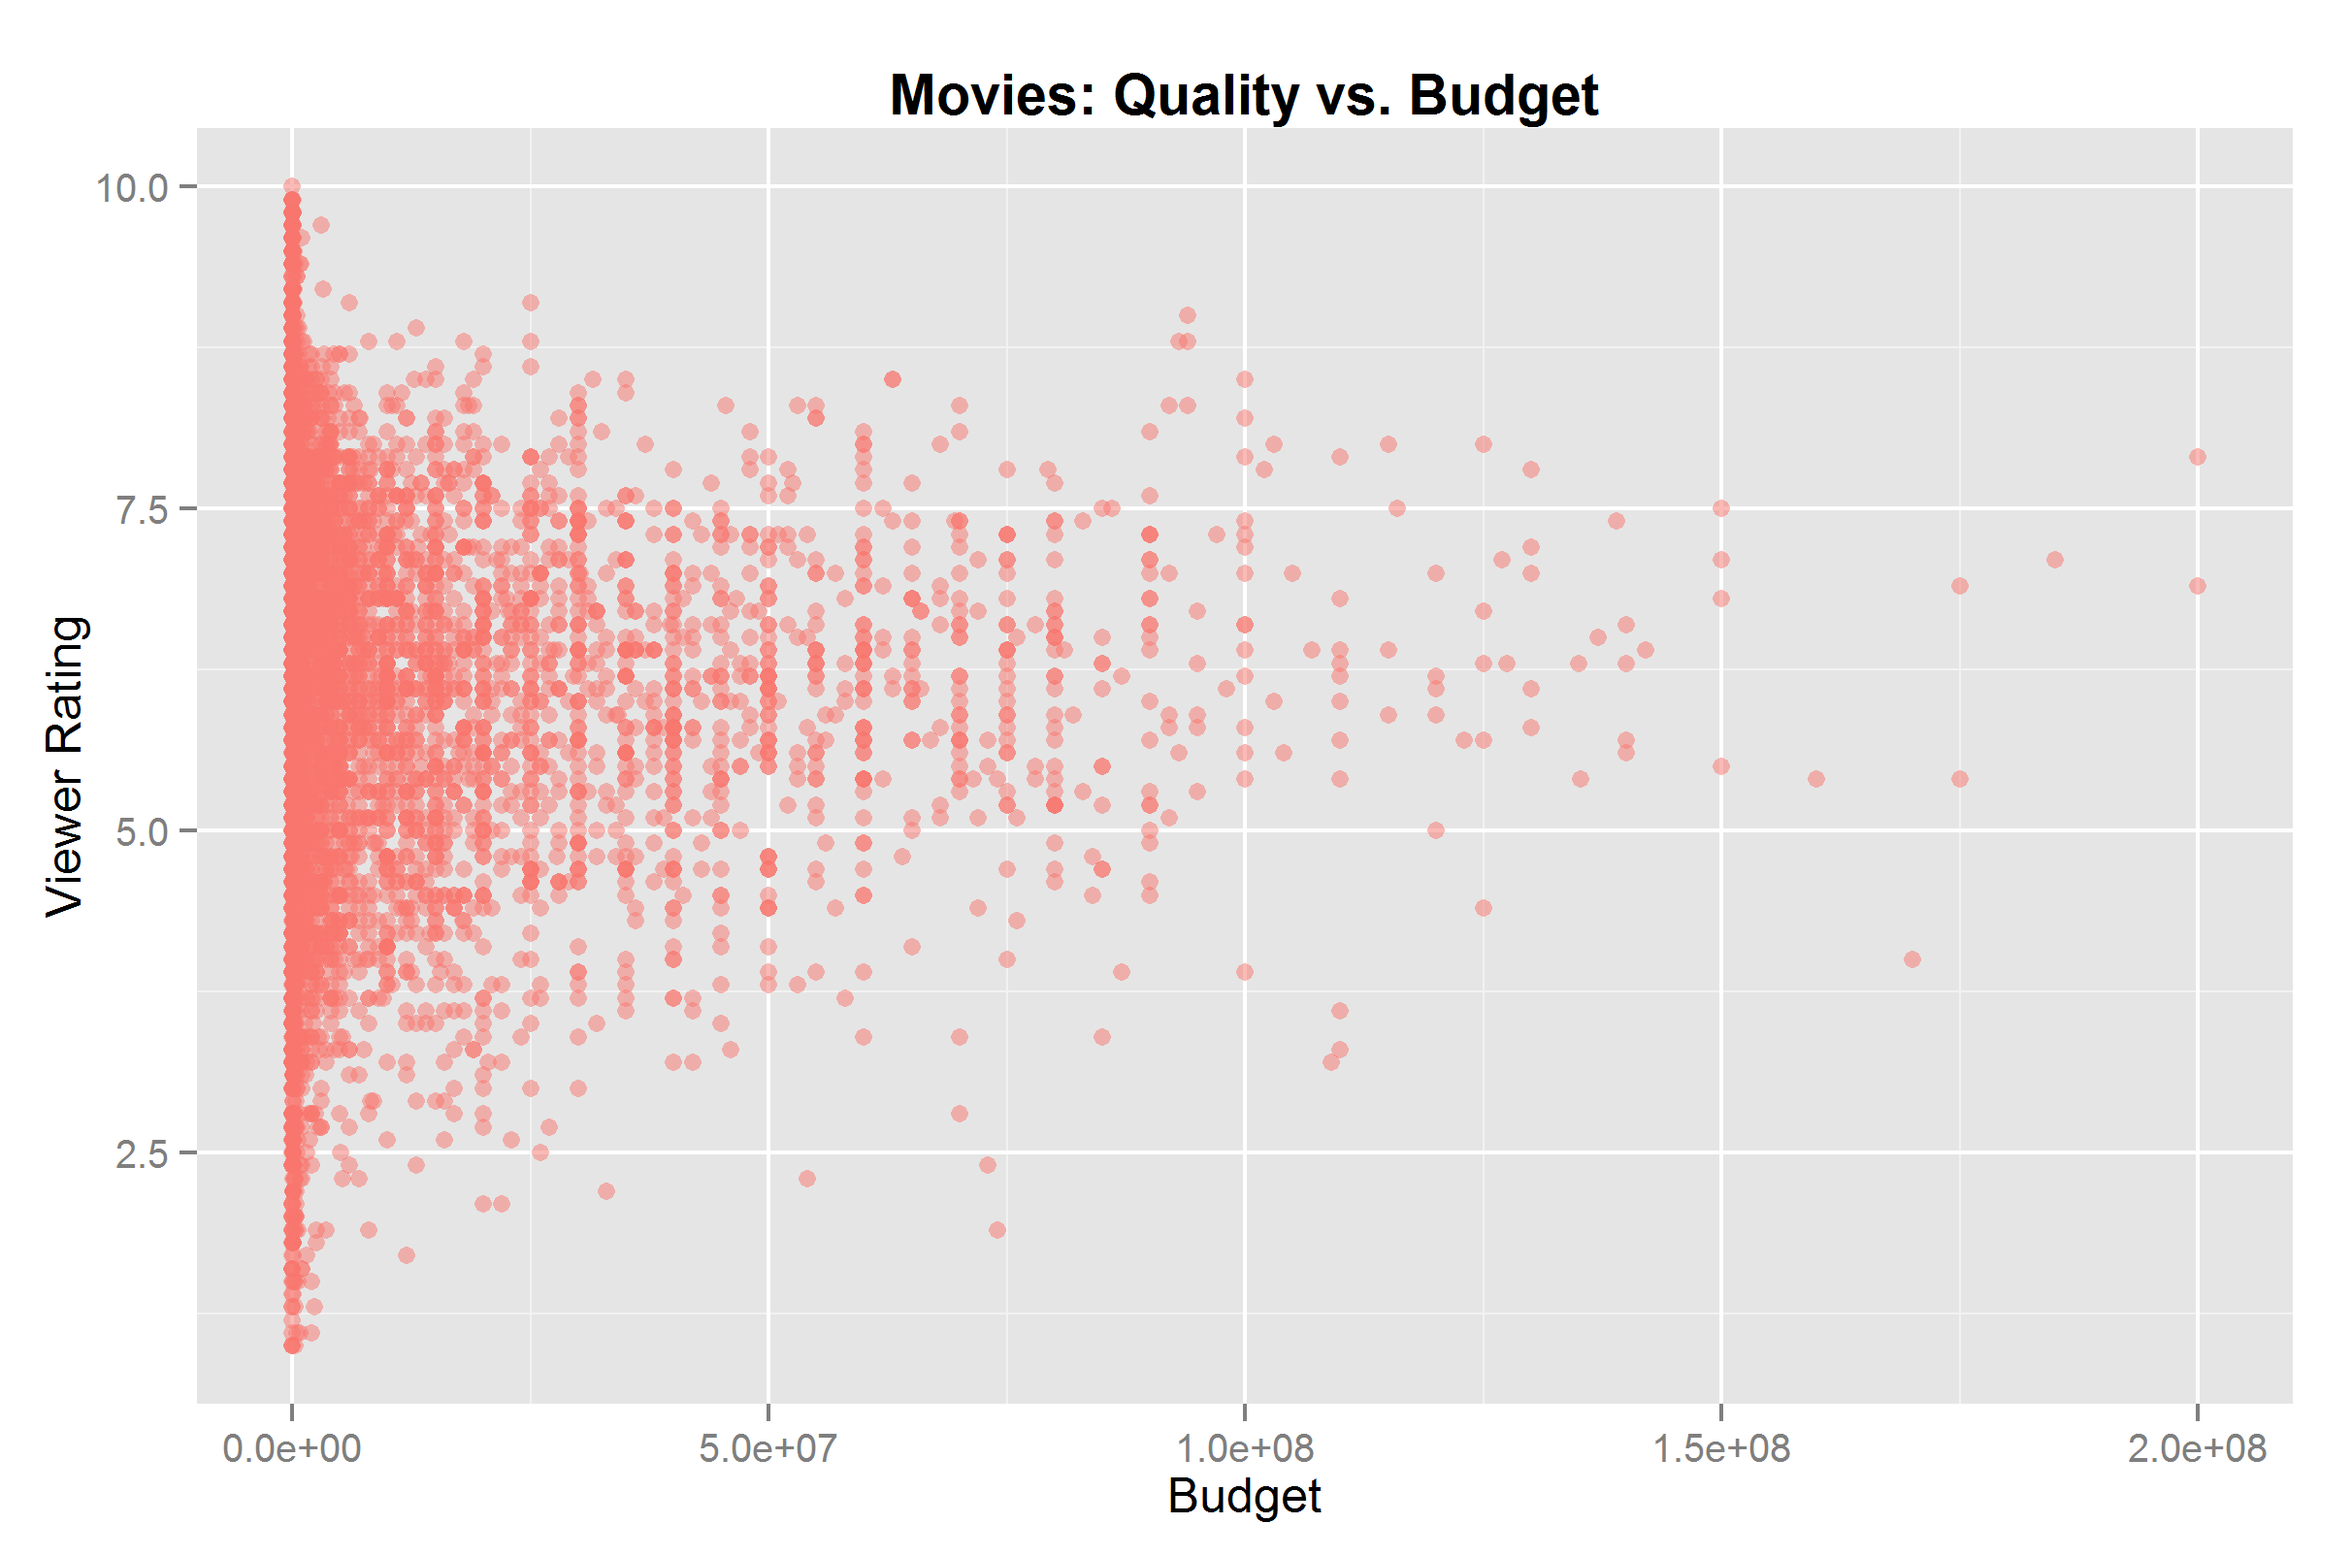
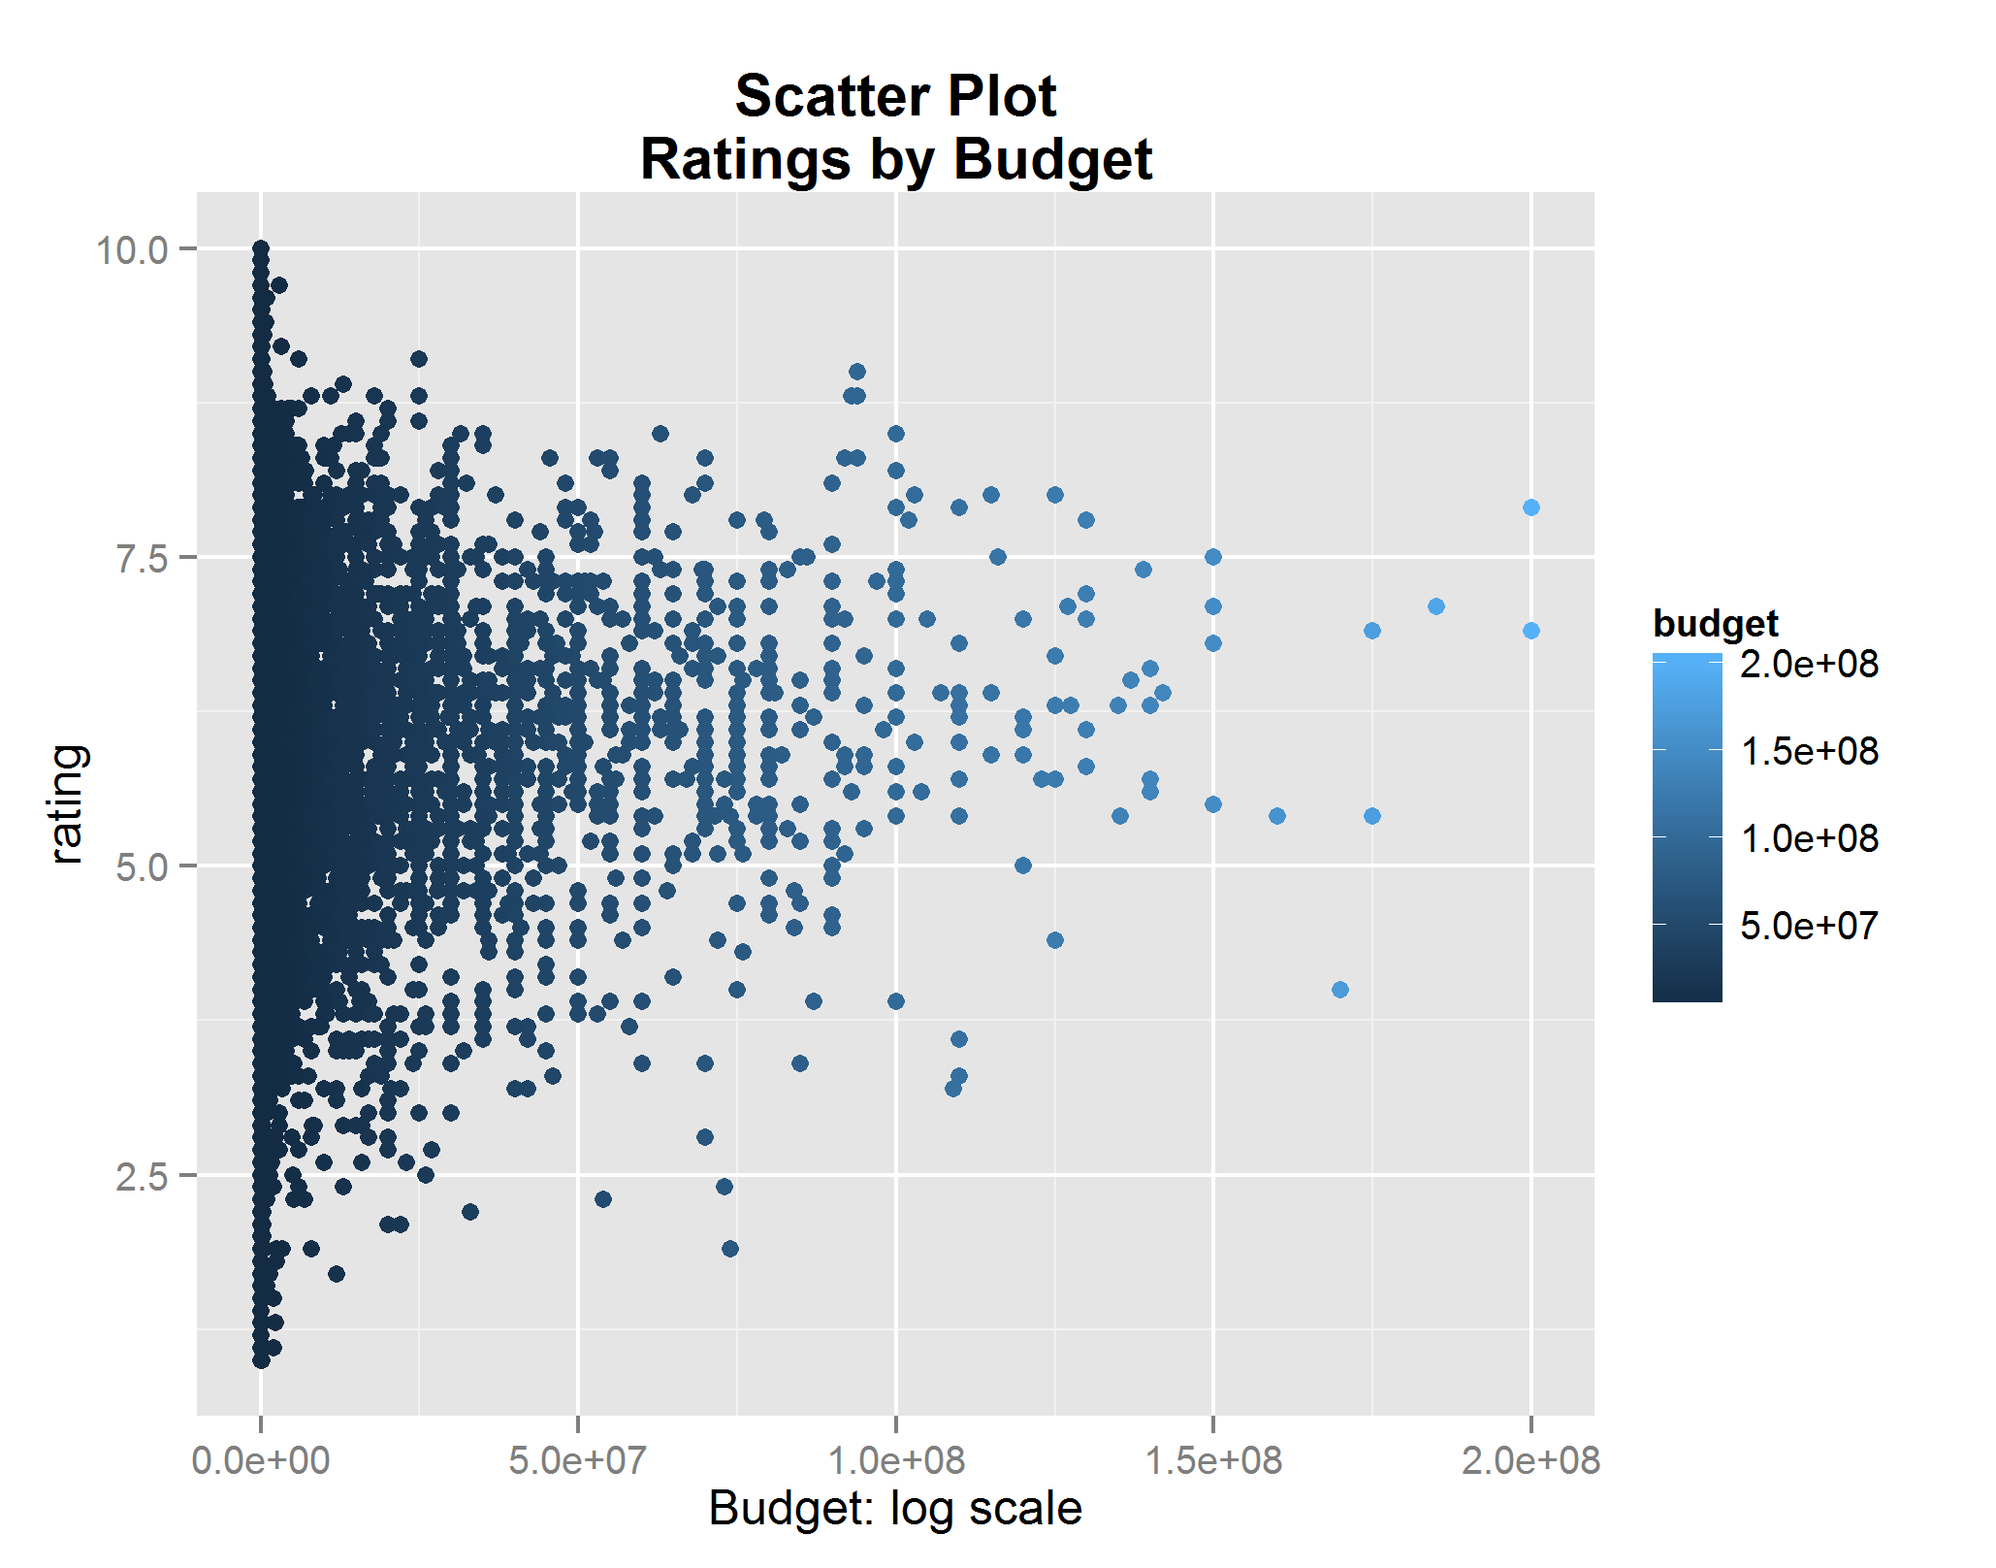
Revert "finalized homework"
This reverts commit 711a972df4cda0f4a910b797dd10fb7c9e76243a.

diff --git a/homework1/README.md b/homework1/README.md
@@ -21,45 +21,8 @@ library(ggplot2)
 source_url("https://github.com/mathursomyak/msan622/blob/master/homework1/Homework_1.R")
 ```
 
-This will generate 4 image files. See below for details.
+This will generate 1 image and some text output. See below for details.
 
 ## Discussion ##
 
-### Bar Plot ###
-This Bar plot shows the frequencies of movie genres in our dataset. 
-####Adjustments to Defaults####
-> * I gave the plot a title
-> * re-organized the bars so that they are in ascending order
-> * tilted the genre labels and resized them to make them more legible
-
-### Scatter Plot ###
-This plot shows the density of data points with their positions
-####Adjustments to Defaults####
-> * I gave the plot a title to give it more "story"
-> * changed the opaqueness & color of the points to see the density better
-> * labeled the axes
-
-### Small Multiples Plot ###
-This is a display of several plots broken out by some factor
-####Adjustments to Defaults####
-> * I gave the plot a title to give it more "story"
-> * added a red line to show the average of each genre for better comparison
-> * labeled the axes, and tilted the labels
-
-### Multiline Plot ###
-This is a display of several time series on the same plot
-####Adjustments to Defaults####
-> * titled the plot and the legend
-> * Changed the colors of the lines
-> * labeled the axes
-
-
-
-
-
-
-
-
-
-
-
+[DISCUSSION: Include a discussion here if required by the assignment.]
